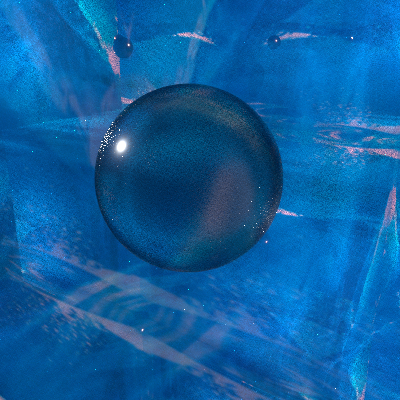
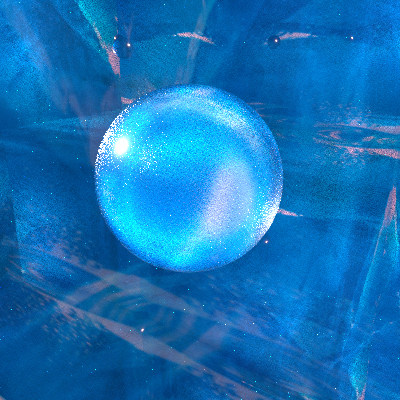
Changed the kr and kt to 3, and it looks way better now.

Changed region(s): [[0.21, 0.21, 0.72, 0.69], [0.27, 0.09, 0.33, 0.15]]

diff --git a/src/materials/ice.cpp b/src/materials/ice.cpp
@@ -41,7 +41,7 @@
 
 namespace pbrt {
 
-// GlassMaterial Method Definitions
+// IceMaterial Method Definitions
 void IceMaterial::ComputeScatteringFunctions(SurfaceInteraction *si,
                                                MemoryArena &arena,
                                                TransportMode mode,
@@ -93,9 +93,9 @@ void IceMaterial::ComputeScatteringFunctions(SurfaceInteraction *si,
 
 IceMaterial *CreateIceMaterial(const TextureParams &mp) {
     std::shared_ptr<Texture<Spectrum>> Kr =
-        mp.GetSpectrumTexture("Kr", Spectrum(1.f));
+        mp.GetSpectrumTexture("Kr", Spectrum(3.f));
     std::shared_ptr<Texture<Spectrum>> Kt =
-        mp.GetSpectrumTexture("Kt", Spectrum(1.f));
+        mp.GetSpectrumTexture("Kt", Spectrum(3.f));
     std::shared_ptr<Texture<Float>> eta = mp.GetFloatTextureOrNull("eta");
     if (!eta) eta = mp.GetFloatTexture("index", 1.31f);
     std::shared_ptr<Texture<Float>> roughu =
